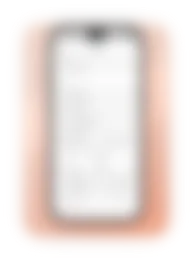
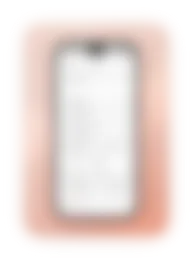
Settings: the phone centred in the thumbnail
The film has the phone high, touching its top edge, at the thumbnail's
moment. The thumbnail now eases out and down a little (0.9x) to centre
it, over the film's background carried past its edges (rebuilt from the
background around the phone, so the phone isn't mirrored into it).
Playing, the shot eases out to the whole film as before. Blurred grid
stills redone.

Claude-Session: https://claude.ai/code/session_01KWunyGjQtk3sCnGrUXUHPS

Changed region(s): [[0.2176, 0.0615, 0.7772, 0.3385], [0.5907, 0.3692, 0.7461, 0.8615], [0.2798, 0.7692, 0.342, 0.8308]]

diff --git a/src/content/work/settings.md b/src/content/work/settings.md
@@ -11,11 +11,14 @@ cover:
     webm: images/work/settings.webm
     mp4: images/work/settings.mp4
     poster: images/work/settings.jpg
+    backdrop: images/work/settings-backdrop.jpg   # the film's background carried on past its edges, so the thumbnail can sit the phone in the middle
     dark:   # the same film in dark mode, shown when the site is dark
       webm: images/work/settings-dark.webm
       mp4: images/work/settings-dark.mp4
       poster: images/work/settings-dark.jpg
+      backdrop: images/work/settings-dark-backdrop.jpg
     start: 4.5   # thumbnail: the theme menu open (Light ticked in the light film, Dark in the dark one)
+    rest: [0.5, 0.47, 0.9]   # the phone centred: the film has it high (touching the top), so the shot eases down and out a little
     device: full   # a finished film (phone, background, camera and touches all in it), edge to edge
 ---
 
